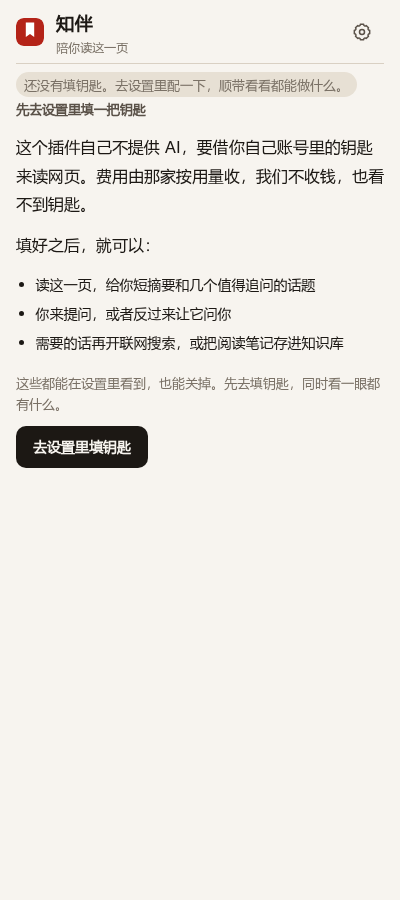
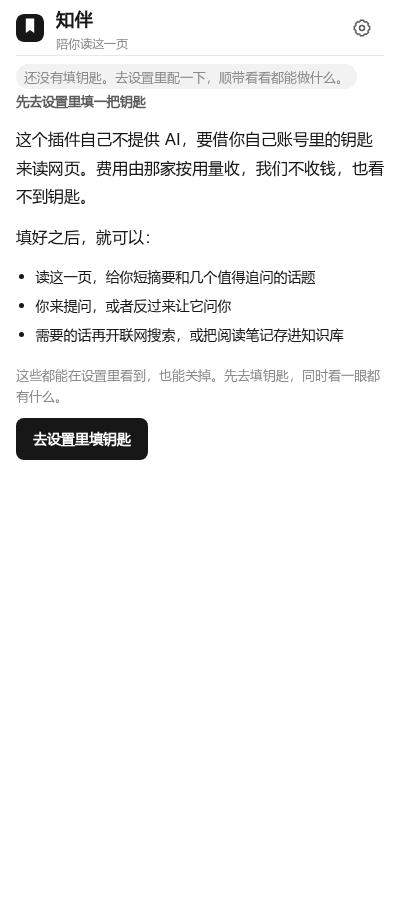
端到端断言改跟现在的界面
界面改成中性极简后，冒烟还在找旧标题和旧类名，0.8.0 的发布流水线因此停在端到端。

Changed region(s): [[0.03, 0.0, 0.96, 0.5289], [0.03, 0.3111, 0.06, 0.3733]]

diff --git a/tests/e2e/screenshots.spec.ts b/tests/e2e/screenshots.spec.ts
@@ -102,22 +102,21 @@ test('首屏摘要与话题', async () => {
   await panel.reload();
 
   await panel.getByRole('button', { name: /开始伴读/ }).click();
-  await expect(panel.getByText('这篇文章讲了什么')).toBeVisible({ timeout: 60_000 });
-  await expect(panel.locator('.chip').first()).toBeVisible();
+  await expect(panel.locator('.chip').first()).toBeVisible({ timeout: 60_000 });
   await panel.screenshot({ path: join(OUTPUT_DIR, 'panel-02-guide.png'), fullPage: true });
 
   // 「AI 问」：真答一轮再截图。只截第一题的话，画面大半是空白，
   // 看不出"一次一个问题"是怎么一步步推进的——那正是翠色时间线要表达的东西。
   await panel.getByRole('tab', { name: /^AI 问$/ }).click();
   await panel.getByRole('button', { name: '这篇文章的核心内容' }).click();
-  await expect(panel.locator('.entry-question').first()).toBeVisible({ timeout: 60_000 });
+  await expect(panel.locator('.msg.ai').first()).toBeVisible({ timeout: 60_000 });
 
   await panel.getByLabel('用自己的话回答').fill(
     '新方案在这个试点里平均用了八十分钟，比原方案的一百分钟少；但作者提醒只有三个受过培训的团队，不能推广。',
   );
   await panel.getByRole('button', { name: '回答' }).click();
-  await expect(panel.locator('.entry-feedback').first()).toBeVisible({ timeout: 60_000 });
-  await expect(panel.locator('.entry-question').nth(1)).toBeVisible({ timeout: 60_000 });
+  await expect(panel.locator('.msg.user').first()).toBeVisible({ timeout: 60_000 });
+  await expect(panel.locator('.msg.ai').nth(1)).toBeVisible({ timeout: 60_000 });
   await panel.screenshot({ path: join(OUTPUT_DIR, 'panel-03-learning.png'), fullPage: true });
   await article.close();
   await panel.close();

diff --git a/tests/e2e/flow.spec.ts b/tests/e2e/flow.spec.ts
@@ -125,7 +125,7 @@ test.describe('主路径', () => {
 
     // 有真 Key 时必须走完整条链路。
     await expect(panel.getByText('等你在浏览器里允许读取这个网站')).toBeHidden({ timeout: 20_000 }).catch(() => {});
-    await expect(panel.getByText('这篇文章讲了什么')).toBeVisible({ timeout: 60_000 });
+    await expect(panel.locator('.chip').first()).toBeVisible({ timeout: 60_000 });
     await expect(panel.getByText(/读取范围：读到了 \d+ 段文字/)).toBeVisible();
     const bubbles = panel.locator('.chip');
     await expect(bubbles.first()).toBeVisible();
@@ -161,6 +161,6 @@ test.describe('主路径', () => {
     await expect(start).toBeEnabled({ timeout: 10_000 });
     await start.click();
     // 不再需要工具栏点击：地址由已授权的标签页查询得到。
-    await expect(panel.getByText('这篇文章讲了什么')).toBeVisible({ timeout: 60_000 });
+    await expect(panel.locator('.chip').first()).toBeVisible({ timeout: 60_000 });
   });
 });
